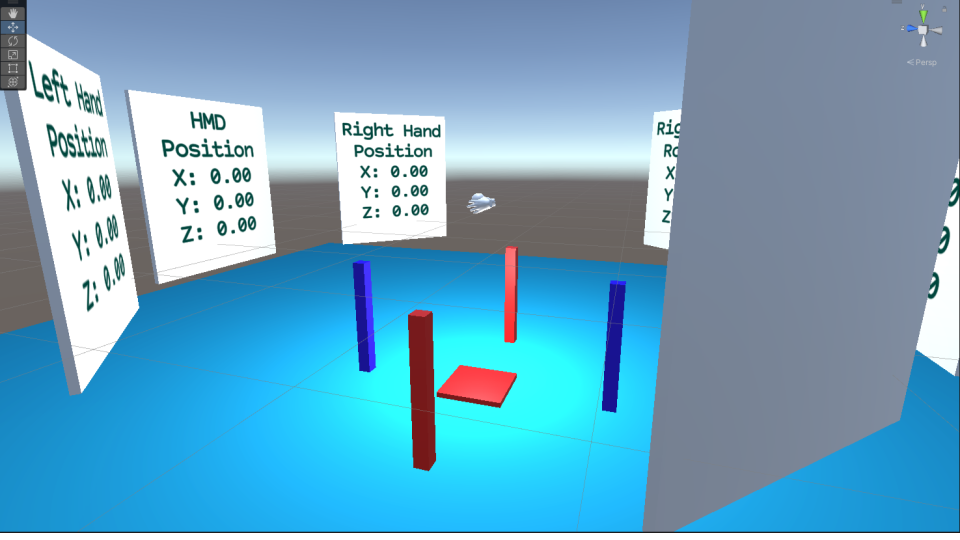
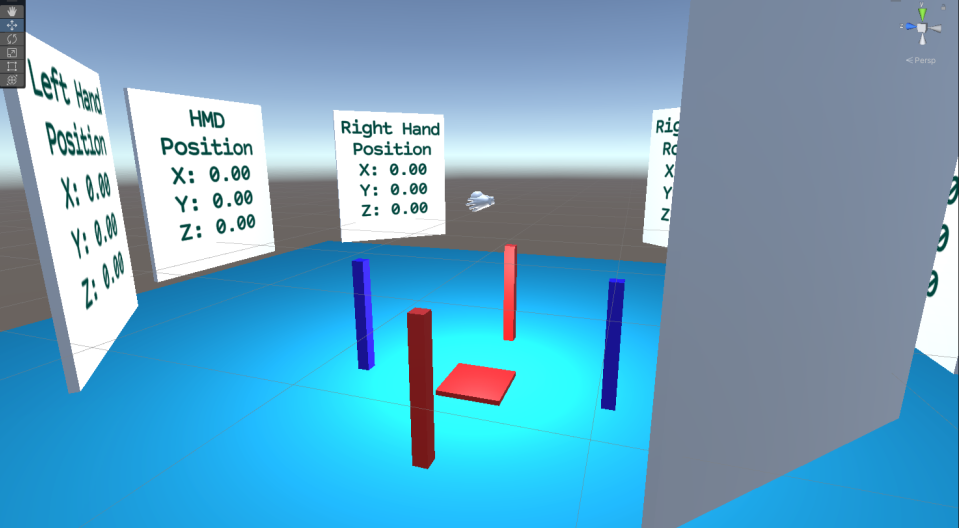
edited vrmapper

diff --git a/_works/UX1.md b/_works/UX1.md
@@ -8,4 +8,4 @@ date: 2021-09-27
 
 <iframe width="560" height="315" src="https://www.youtube.com/embed/LSZ7ALxAk4A" title="YouTube video player" frameborder="0" allow="accelerometer; autoplay; clipboard-write; encrypted-media; gyroscope; picture-in-picture" allowfullscreen></iframe>
 
-*UX-1* is an audiovisual composition made by superimposing different recordings of movement-sound interactions using VR controllers. Each recording explored different movement-sound mappings between the handheld controllers and various virtual instruments and effects, including granular synthesis, FM synthesis, filters and delays. The recordings are the raw material used to create the composition through hard cuts and chromakeying. There is no audio post processing on any of the takes, only hard mixes between the takes. The controller data is sent from Unity to a custom Max For Live device in Ableton that allows mapping to other devices in the DAW. The parameters that can be used for sound control include XYZ position, euler rotation, velocity, acceleration and button/trigger input.
+*UX-1* is an audiovisual composition made by superimposing different recordings of movement-sound interactions using VR controllers. Each recording explored different movement-sound mappings between the handheld controllers and various virtual instruments and effects, including granular synthesis, FM synthesis, filters and delays. The recordings are the raw material used to create the composition through hard cuts and chromakeying. There is no audio post processing on any of the takes, only hard mixes between the takes. 

diff --git a/_works/vrmapper.md b/_works/vrmapper.md
@@ -9,3 +9,5 @@ date: 2021-07-27
 <iframe width="49%" height="315" src="https://www.youtube.com/embed/zT9m1LSks1M?si=nhlB7hlNaUWTMD3E" title="YouTube video player" frameborder="0" allow="accelerometer; autoplay; clipboard-write; encrypted-media; gyroscope; picture-in-picture; web-share" referrerpolicy="strict-origin-when-cross-origin" allowfullscreen></iframe>
 
 <iframe width="49%" height="315" src="https://www.youtube.com/embed/Ruq2c8Xjtv8?si=sQOAFNwvuLQEbtbP" title="YouTube video player" frameborder="0" allow="accelerometer; autoplay; clipboard-write; encrypted-media; gyroscope; picture-in-picture; web-share" referrerpolicy="strict-origin-when-cross-origin" allowfullscreen></iframe>
+
+VR-Mapper is a Max For Live device that can receive controller input and movement data. The data includes 3D position, euler rotation, velocity, acceleration and button/trigger input. The data is sent via OSC from a Unity scene. The device can be combine, smoothe, and scale data that can be mapped to other devices, tracks and effects in Ableton Live.
